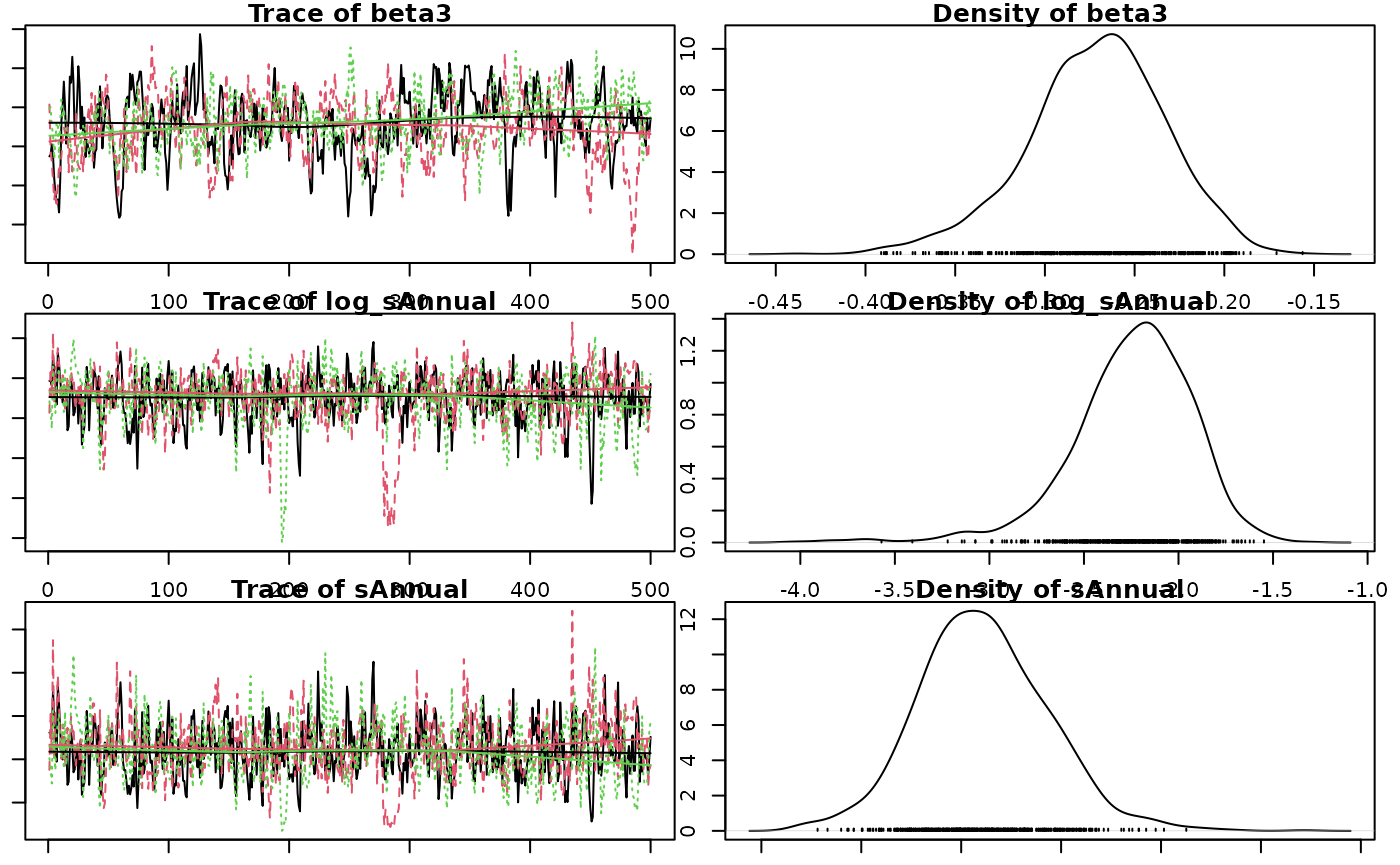
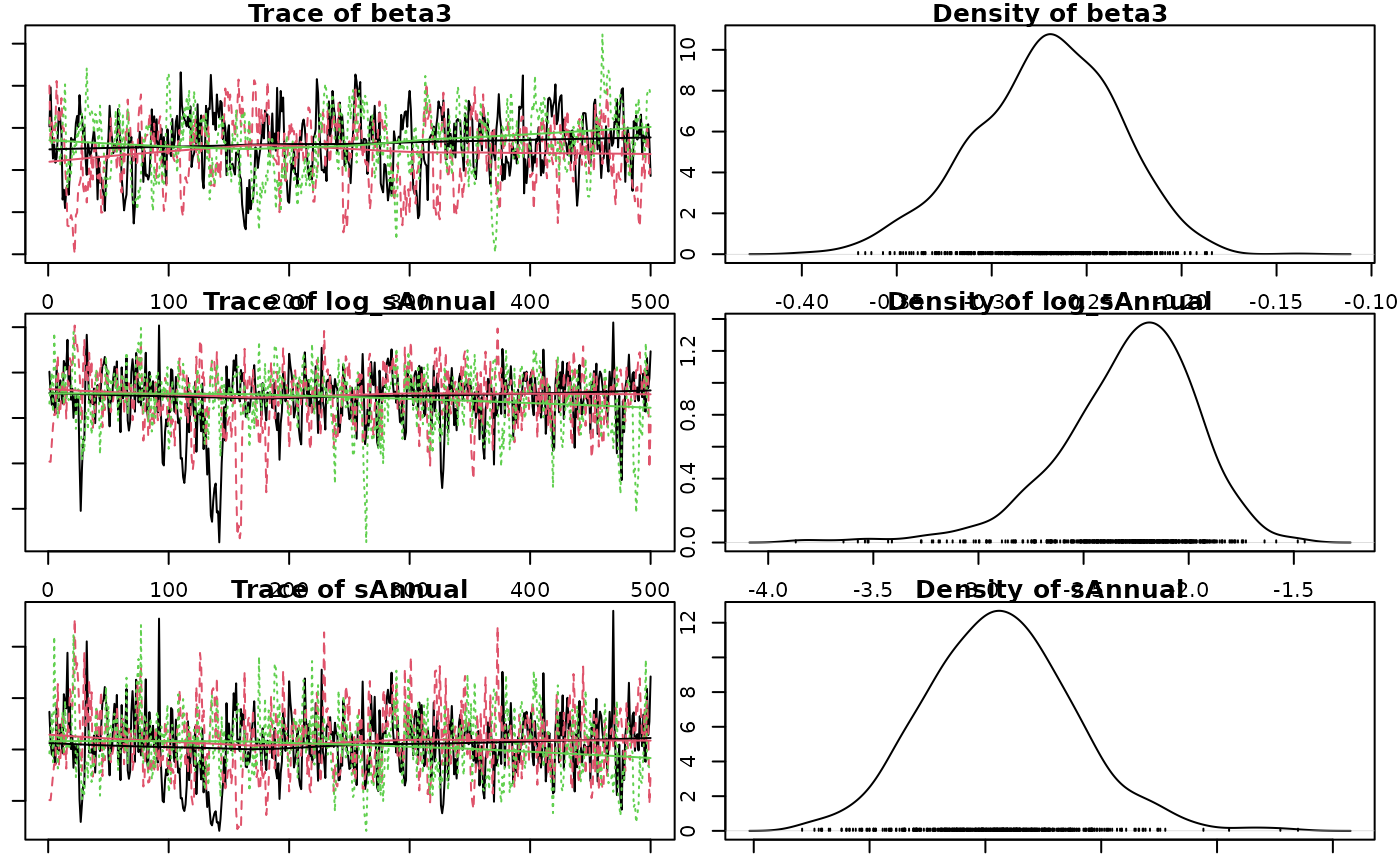
Built site for jmbr@0.0.0.9140: da1bf4c

diff --git a/articles/jmbr.html b/articles/jmbr.html
@@ -285,14 +285,14 @@ value and discarding all other values.</p>
 <span><span class="co">#&gt; <span style="color: #949494;"># A tibble: 1 × 8</span></span></span>
 <span><span class="co">#&gt;       n     K nchains niters nthin   ess  rhat converged</span></span>
 <span><span class="co">#&gt;   <span style="color: #949494; font-style: italic;">&lt;int&gt;</span> <span style="color: #949494; font-style: italic;">&lt;int&gt;</span>   <span style="color: #949494; font-style: italic;">&lt;int&gt;</span>  <span style="color: #949494; font-style: italic;">&lt;int&gt;</span> <span style="color: #949494; font-style: italic;">&lt;int&gt;</span> <span style="color: #949494; font-style: italic;">&lt;int&gt;</span> <span style="color: #949494; font-style: italic;">&lt;dbl&gt;</span> <span style="color: #949494; font-style: italic;">&lt;lgl&gt;</span>    </span></span>
-<span><span class="co">#&gt; <span style="color: #BCBCBC;">1</span>    40     6       3    500    10   237  1.02 TRUE</span></span>
+<span><span class="co">#&gt; <span style="color: #BCBCBC;">1</span>    40     6       3    500    10   242  1.02 TRUE</span></span>
 <span><span class="co">#&gt; Warning in value[[3L]](cond): beep() could not play the sound due to the following error:</span></span>
 <span><span class="co">#&gt; Error in play.default(x, rate, ...): no audio drivers are available</span></span>
 <span><span class="va">analysis</span> <span class="op">&lt;-</span> <span class="fu"><a href="https://rdrr.io/pkg/embr/man/reanalyse.html" class="external-link">reanalyse</a></span><span class="op">(</span><span class="va">analysis</span><span class="op">)</span></span>
 <span><span class="co">#&gt; <span style="color: #949494;"># A tibble: 1 × 8</span></span></span>
 <span><span class="co">#&gt;       n     K nchains niters nthin   ess  rhat converged</span></span>
 <span><span class="co">#&gt;   <span style="color: #949494; font-style: italic;">&lt;int&gt;</span> <span style="color: #949494; font-style: italic;">&lt;int&gt;</span>   <span style="color: #949494; font-style: italic;">&lt;int&gt;</span>  <span style="color: #949494; font-style: italic;">&lt;int&gt;</span> <span style="color: #949494; font-style: italic;">&lt;int&gt;</span> <span style="color: #949494; font-style: italic;">&lt;int&gt;</span> <span style="color: #949494; font-style: italic;">&lt;dbl&gt;</span> <span style="color: #949494; font-style: italic;">&lt;lgl&gt;</span>    </span></span>
-<span><span class="co">#&gt; <span style="color: #BCBCBC;">1</span>    40     6       3    500    10   237  1.02 TRUE</span></span>
+<span><span class="co">#&gt; <span style="color: #BCBCBC;">1</span>    40     6       3    500    10   242  1.02 TRUE</span></span>
 <span><span class="co">#&gt; Warning in value[[3L]](cond): beep() could not play the sound due to the following error:</span></span>
 <span><span class="co">#&gt; Error in play.default(x, rate, ...): no audio drivers are available</span></span></code></pre></div>
 <p><strong>Analysis Table:</strong></p>
@@ -342,12 +342,12 @@ between- and within-chain estimates for model parameters.
 <span><span class="co">#&gt; <span style="color: #949494;"># A tibble: 6 × 7</span></span></span>
 <span><span class="co">#&gt;   term        estimate     sd  zscore   lower   upper   pvalue</span></span>
 <span><span class="co">#&gt;   <span style="color: #949494; font-style: italic;">&lt;term&gt;</span>         <span style="color: #949494; font-style: italic;">&lt;dbl&gt;</span>  <span style="color: #949494; font-style: italic;">&lt;dbl&gt;</span>   <span style="color: #949494; font-style: italic;">&lt;dbl&gt;</span>   <span style="color: #949494; font-style: italic;">&lt;dbl&gt;</span>   <span style="color: #949494; font-style: italic;">&lt;dbl&gt;</span>    <span style="color: #949494; font-style: italic;">&lt;dbl&gt;</span></span></span>
-<span><span class="co">#&gt; <span style="color: #BCBCBC;">1</span> alpha         4.26   0.042<span style="text-decoration: underline;">3</span> 101.     4.18    4.34   0.000<span style="text-decoration: underline;">666</span></span></span>
-<span><span class="co">#&gt; <span style="color: #BCBCBC;">2</span> beta1         1.19   0.074<span style="text-decoration: underline;">9</span>  15.9    1.05    1.35   0.000<span style="text-decoration: underline;">666</span></span></span>
-<span><span class="co">#&gt; <span style="color: #BCBCBC;">3</span> beta2        -<span style="color: #BB0000;">0.018</span><span style="color: #BB0000; text-decoration: underline;">0</span> 0.031<span style="text-decoration: underline;">9</span>  -<span style="color: #BB0000;">0.562</span> -<span style="color: #BB0000;">0.080</span><span style="color: #BB0000; text-decoration: underline;">4</span>  0.046<span style="text-decoration: underline;">5</span> 0.555   </span></span>
-<span><span class="co">#&gt; <span style="color: #BCBCBC;">4</span> beta3        -<span style="color: #BB0000;">0.269</span>  0.038<span style="text-decoration: underline;">5</span>  -<span style="color: #BB0000;">7.06</span>  -<span style="color: #BB0000;">0.357</span>  -<span style="color: #BB0000;">0.201</span>  0.000<span style="text-decoration: underline;">666</span></span></span>
-<span><span class="co">#&gt; <span style="color: #BCBCBC;">5</span> log_sAnnual  -<span style="color: #BB0000;">2.21</span>   0.328   -<span style="color: #BB0000;">6.85</span>  -<span style="color: #BB0000;">3.05</span>   -<span style="color: #BB0000;">1.73</span>   0.000<span style="text-decoration: underline;">666</span></span></span>
-<span><span class="co">#&gt; <span style="color: #BCBCBC;">6</span> sAnnual       0.110  0.032<span style="text-decoration: underline;">6</span>   3.41   0.047<span style="text-decoration: underline;">5</span>  0.178  0.000<span style="text-decoration: underline;">666</span></span></span></code></pre></div>
+<span><span class="co">#&gt; <span style="color: #BCBCBC;">1</span> alpha         4.26   0.040<span style="text-decoration: underline;">3</span> 106.     4.18    4.33   0.000<span style="text-decoration: underline;">666</span></span></span>
+<span><span class="co">#&gt; <span style="color: #BCBCBC;">2</span> beta1         1.19   0.073<span style="text-decoration: underline;">9</span>  16.1    1.06    1.34   0.000<span style="text-decoration: underline;">666</span></span></span>
+<span><span class="co">#&gt; <span style="color: #BCBCBC;">3</span> beta2        -<span style="color: #BB0000;">0.016</span><span style="color: #BB0000; text-decoration: underline;">7</span> 0.030<span style="text-decoration: underline;">9</span>  -<span style="color: #BB0000;">0.554</span> -<span style="color: #BB0000;">0.076</span><span style="color: #BB0000; text-decoration: underline;">4</span>  0.045<span style="text-decoration: underline;">2</span> 0.542   </span></span>
+<span><span class="co">#&gt; <span style="color: #BCBCBC;">4</span> beta3        -<span style="color: #BB0000;">0.270</span>  0.037<span style="text-decoration: underline;">6</span>  -<span style="color: #BB0000;">7.23</span>  -<span style="color: #BB0000;">0.351</span>  -<span style="color: #BB0000;">0.205</span>  0.000<span style="text-decoration: underline;">666</span></span></span>
+<span><span class="co">#&gt; <span style="color: #BCBCBC;">5</span> log_sAnnual  -<span style="color: #BB0000;">2.25</span>   0.332   -<span style="color: #BB0000;">6.90</span>  -<span style="color: #BB0000;">3.06</span>   -<span style="color: #BB0000;">1.76</span>   0.000<span style="text-decoration: underline;">666</span></span></span>
+<span><span class="co">#&gt; <span style="color: #BCBCBC;">6</span> sAnnual       0.106  0.031<span style="text-decoration: underline;">8</span>   3.34   0.046<span style="text-decoration: underline;">7</span>  0.173  0.000<span style="text-decoration: underline;">666</span></span></span></code></pre></div>
 <p>The estimate is the <strong>median</strong> by default.</p>
 <p>The zscore is <span class="math inline">mean / sd</span>.</p>
 <div class="sourceCode" id="cb12"><pre class="downlit sourceCode r">
@@ -355,12 +355,12 @@ between- and within-chain estimates for model parameters.
 <span><span class="co">#&gt; <span style="color: #949494;"># A tibble: 6 × 5</span></span></span>
 <span><span class="co">#&gt;   term        estimate   lower   upper svalue</span></span>
 <span><span class="co">#&gt;   <span style="color: #949494; font-style: italic;">&lt;term&gt;</span>         <span style="color: #949494; font-style: italic;">&lt;dbl&gt;</span>   <span style="color: #949494; font-style: italic;">&lt;dbl&gt;</span>   <span style="color: #949494; font-style: italic;">&lt;dbl&gt;</span>  <span style="color: #949494; font-style: italic;">&lt;dbl&gt;</span></span></span>
-<span><span class="co">#&gt; <span style="color: #BCBCBC;">1</span> alpha         4.26    4.18    4.34   10.6  </span></span>
-<span><span class="co">#&gt; <span style="color: #BCBCBC;">2</span> beta1         1.19    1.05    1.35   10.6  </span></span>
-<span><span class="co">#&gt; <span style="color: #BCBCBC;">3</span> beta2        -<span style="color: #BB0000;">0.018</span><span style="color: #BB0000; text-decoration: underline;">0</span> -<span style="color: #BB0000;">0.080</span><span style="color: #BB0000; text-decoration: underline;">4</span>  0.046<span style="text-decoration: underline;">5</span>  0.850</span></span>
-<span><span class="co">#&gt; <span style="color: #BCBCBC;">4</span> beta3        -<span style="color: #BB0000;">0.269</span>  -<span style="color: #BB0000;">0.357</span>  -<span style="color: #BB0000;">0.201</span>  10.6  </span></span>
-<span><span class="co">#&gt; <span style="color: #BCBCBC;">5</span> log_sAnnual  -<span style="color: #BB0000;">2.21</span>   -<span style="color: #BB0000;">3.05</span>   -<span style="color: #BB0000;">1.73</span>   10.6  </span></span>
-<span><span class="co">#&gt; <span style="color: #BCBCBC;">6</span> sAnnual       0.110   0.047<span style="text-decoration: underline;">5</span>  0.178  10.6</span></span></code></pre></div>
+<span><span class="co">#&gt; <span style="color: #BCBCBC;">1</span> alpha         4.26    4.18    4.33   10.6  </span></span>
+<span><span class="co">#&gt; <span style="color: #BCBCBC;">2</span> beta1         1.19    1.06    1.34   10.6  </span></span>
+<span><span class="co">#&gt; <span style="color: #BCBCBC;">3</span> beta2        -<span style="color: #BB0000;">0.016</span><span style="color: #BB0000; text-decoration: underline;">7</span> -<span style="color: #BB0000;">0.076</span><span style="color: #BB0000; text-decoration: underline;">4</span>  0.045<span style="text-decoration: underline;">2</span>  0.885</span></span>
+<span><span class="co">#&gt; <span style="color: #BCBCBC;">4</span> beta3        -<span style="color: #BB0000;">0.270</span>  -<span style="color: #BB0000;">0.351</span>  -<span style="color: #BB0000;">0.205</span>  10.6  </span></span>
+<span><span class="co">#&gt; <span style="color: #BCBCBC;">5</span> log_sAnnual  -<span style="color: #BB0000;">2.25</span>   -<span style="color: #BB0000;">3.06</span>   -<span style="color: #BB0000;">1.76</span>   10.6  </span></span>
+<span><span class="co">#&gt; <span style="color: #BCBCBC;">6</span> sAnnual       0.106   0.046<span style="text-decoration: underline;">7</span>  0.173  10.6</span></span></code></pre></div>
 <p>The s-value is the <strong>suprisal</strong> value, which is a
 measure of directionality with respect to zero.</p>
 <p>The s-value is zero (unsurprising) when <em>p-value</em> = 1.0 and

diff --git a/articles/jmbr.md b/articles/jmbr.md
@@ -214,14 +214,14 @@ analysis <- analyse(model, data = data)
 #> # A tibble: 1 × 8
 #>       n     K nchains niters nthin   ess  rhat converged
 #>   <int> <int>   <int>  <int> <int> <int> <dbl> <lgl>    
-#> 1    40     6       3    500    10   237  1.02 TRUE
+#> 1    40     6       3    500    10   242  1.02 TRUE
 #> Warning in value[[3L]](cond): beep() could not play the sound due to the following error:
 #> Error in play.default(x, rate, ...): no audio drivers are available
 analysis <- reanalyse(analysis)
 #> # A tibble: 1 × 8
 #>       n     K nchains niters nthin   ess  rhat converged
 #>   <int> <int>   <int>  <int> <int> <int> <dbl> <lgl>    
-#> 1    40     6       3    500    10   237  1.02 TRUE
+#> 1    40     6       3    500    10   242  1.02 TRUE
 #> Warning in value[[3L]](cond): beep() could not play the sound due to the following error:
 #> Error in play.default(x, rate, ...): no audio drivers are available
 ```
@@ -265,12 +265,12 @@ coef(analysis)
 #> # A tibble: 6 × 7
 #>   term        estimate     sd  zscore   lower   upper   pvalue
 #>   <term>         <dbl>  <dbl>   <dbl>   <dbl>   <dbl>    <dbl>
-#> 1 alpha         4.26   0.0423 101.     4.18    4.34   0.000666
-#> 2 beta1         1.19   0.0749  15.9    1.05    1.35   0.000666
-#> 3 beta2        -0.0180 0.0319  -0.562 -0.0804  0.0465 0.555   
-#> 4 beta3        -0.269  0.0385  -7.06  -0.357  -0.201  0.000666
-#> 5 log_sAnnual  -2.21   0.328   -6.85  -3.05   -1.73   0.000666
-#> 6 sAnnual       0.110  0.0326   3.41   0.0475  0.178  0.000666
+#> 1 alpha         4.26   0.0403 106.     4.18    4.33   0.000666
+#> 2 beta1         1.19   0.0739  16.1    1.06    1.34   0.000666
+#> 3 beta2        -0.0167 0.0309  -0.554 -0.0764  0.0452 0.542   
+#> 4 beta3        -0.270  0.0376  -7.23  -0.351  -0.205  0.000666
+#> 5 log_sAnnual  -2.25   0.332   -6.90  -3.06   -1.76   0.000666
+#> 6 sAnnual       0.106  0.0318   3.34   0.0467  0.173  0.000666
 ```
 
 The estimate is the **median** by default.
@@ -282,12 +282,12 @@ coef(analysis, simplify = TRUE)
 #> # A tibble: 6 × 5
 #>   term        estimate   lower   upper svalue
 #>   <term>         <dbl>   <dbl>   <dbl>  <dbl>
-#> 1 alpha         4.26    4.18    4.34   10.6  
-#> 2 beta1         1.19    1.05    1.35   10.6  
-#> 3 beta2        -0.0180 -0.0804  0.0465  0.850
-#> 4 beta3        -0.269  -0.357  -0.201  10.6  
-#> 5 log_sAnnual  -2.21   -3.05   -1.73   10.6  
-#> 6 sAnnual       0.110   0.0475  0.178  10.6
+#> 1 alpha         4.26    4.18    4.33   10.6  
+#> 2 beta1         1.19    1.06    1.34   10.6  
+#> 3 beta2        -0.0167 -0.0764  0.0452  0.885
+#> 4 beta3        -0.270  -0.351  -0.205  10.6  
+#> 5 log_sAnnual  -2.25   -3.06   -1.76   10.6  
+#> 6 sAnnual       0.106   0.0467  0.173  10.6
 ```
 
 The s-value is the **suprisal** value, which is a measure of
